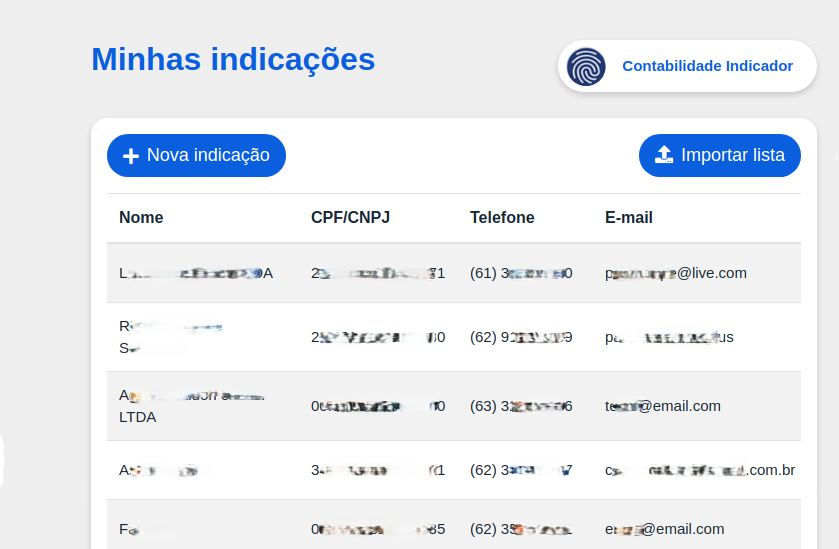
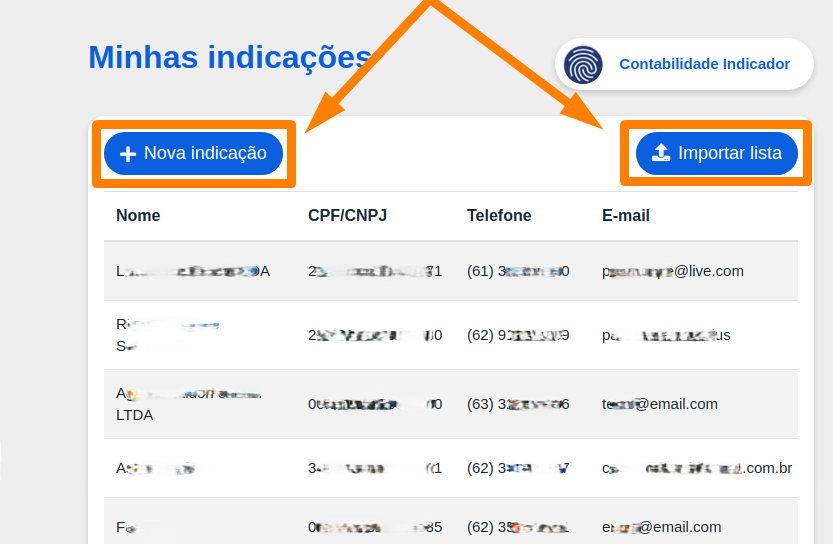
Adição de mais informações na tela do Portal e direcionadores nas imagens do manual.

diff --git a/portal/indicador.md b/portal/indicador.md
@@ -30,7 +30,9 @@ Passe o cursor sobre os gráficos para visualizar informações adicionais, como
 
 Visualize tendências ao longo do tempo, identifique picos de atividade e monitore o impacto das suas indicações em diferentes intervalos.
 
-**Personalização** Configure filtros para ajustar os períodos exibidos, tipos de indicação ou categorias específicas de produtos e serviços.
+**Personalização** 
+
+Configure filtros para ajustar os períodos exibidos, tipos de indicação ou categorias específicas de produtos e serviços.
 
 Observando mais abaixo ainda na tela inicial é mostrado a você uma listagem com todas as indicações já realizadas.
 
@@ -42,31 +44,31 @@ Observando mais abaixo ainda na tela inicial é mostrado a você uma listagem co
 
 ## Minhas Indicações
 
-Aqui você pode verificar uma lista completa com todos os seus indicados, inclusive adicionar ou removê-los. Para adicionar um cliente clique em **`Nova Indicação`** ou **`Importar Lista`**.
+Aqui você pode verificar uma lista completa com todos os seus indicados, inclusive adicionar ou removê-los. Para adicionar um cliente clique em **`Nova Indicação`** ou caso queira adicionar vários clientes de uma só vez, pode utilizar o botão **`Importar Lista`**.
 
 ![](../.gitbook/assets/6_indicador.png)
 
-Um formulário será aberto solicitando as informações do cliente caso seja somente 1.
+Clicando no botão **`Nova Indicação`**, um formulário será aberto para você solicitando as informações do novo cliente que será cadastrado.
 
 ![](../.gitbook/assets/7_indicador.png)
 
-Caso tenha escolhido importar uma lista de indicações, selecione a opção "**Importar lista**" no canto superior direito, um formulário será aberto.
+Agora clicando no botão  **`Importar uma lista`**, uma janela pop-up será mostrada a você, mostrnado os campos necessários para a importação e o botão para você importar a planilha com as informações.
 
 ![](../.gitbook/assets/8_indicador.png)
 
-Selecione o arquivo no formato de planilha que deseja importar. Assim que ele for adicionado suas colunas serão carregadas para que você determine a relação entre oque será importado e oque há no arquivo.
+Selecione o arquivo no formato de planilha que deseja importar. Assim que o arquivo for adicionado, suas colunas serão exibidas, permitindo que você defina a correspondência entre os dados a serem importados e as informações presentes no arquivo.
 
 ![](../.gitbook/assets/9_indicador.png)
 
-Após selecionar a correspondecia entre as colunas clique em "**Começar Importação**".
+Após selecionar a correspondecia entre as colunas clique em "**Começar Importação**" e o nosso sistema fará o processo de adicionar os indicadores um a um para você..
 
 ![](../.gitbook/assets/10_indicador.png)
 
-Durante a importação um log será gerado com os dados de cada cliente importado e o status de sucesso ou falha.
+Durante a importação um detalhamento será gerado com os dados de cada indicador que você está importando, podendo ser um status de sucesso ou falha. É importante verificar os que tiverem alguma falha e corrigir o possível erro, ou adicionar esse indicador de forma manual, conforme mostrado abaixo.
 
 ![](../.gitbook/assets/11_indicador.png)
 
-Após finalizar a importação os novos indicados estarão disponíveis na lista e cadastrados como clientes no sistema.
+Após finalizar a importação, os novos indicadores estarão disponíveis na lista e cadastrados como clientes no sistema.
 
 ## Informações do Parceiro Indicador
 
